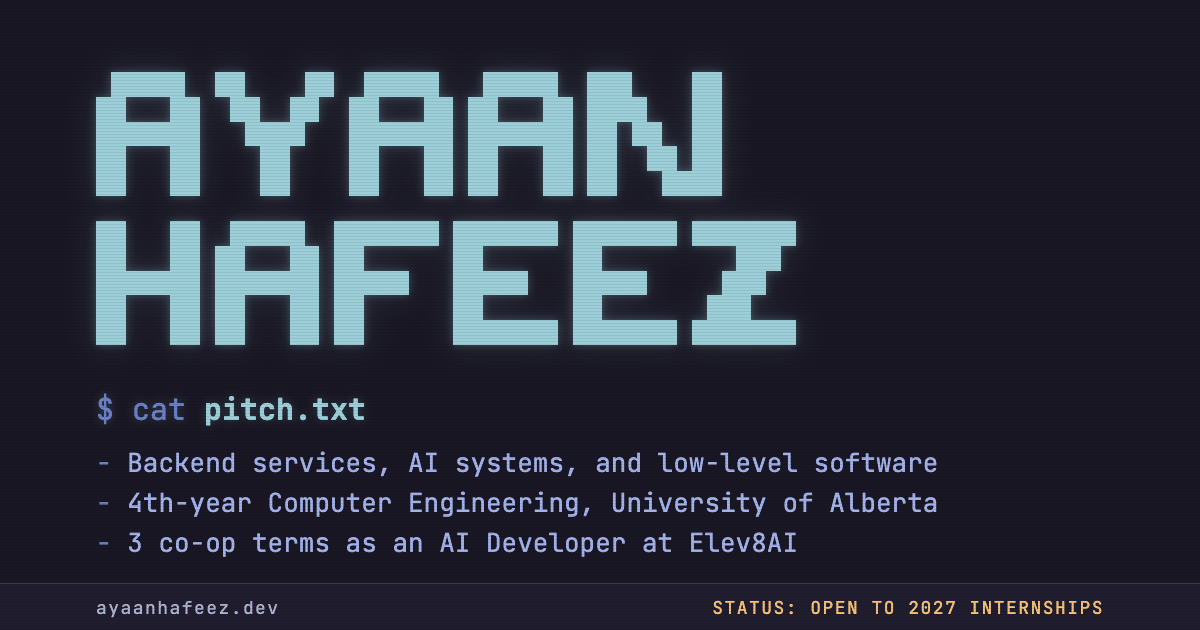
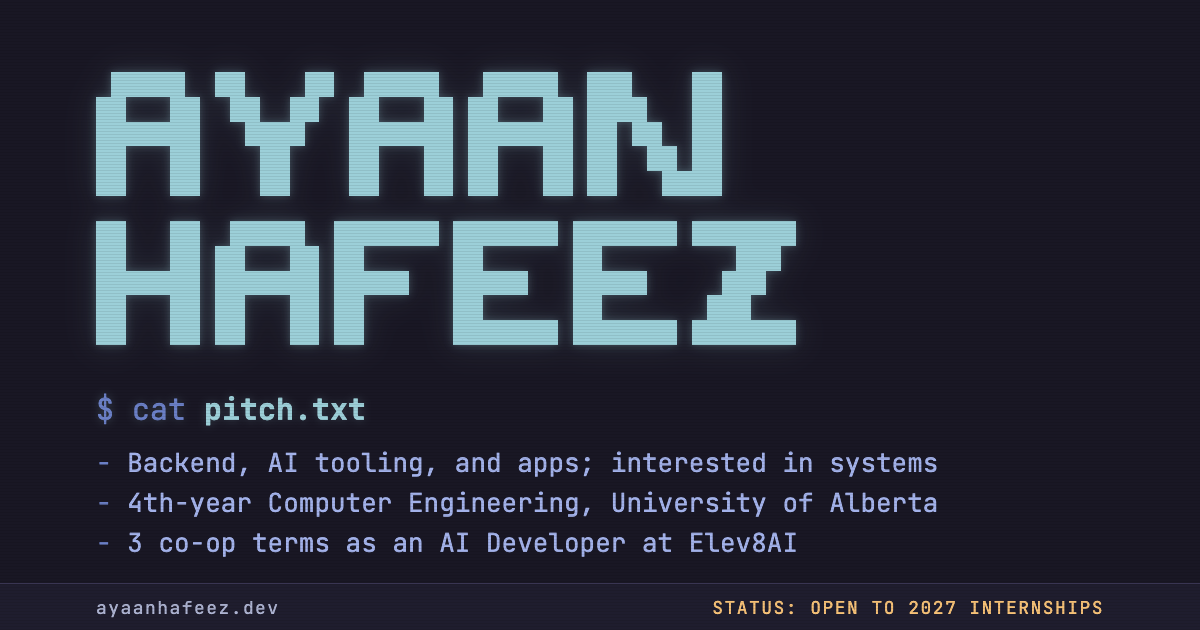
Rebalance projects: systems as an interest, not the whole pitch
Featured: Kitsune, surgraft, ssht, FocusNode, then the Pi kernel as the
systems deep-dive. macwifi and simdlings move to more projects alongside
ASCII and agent-sudo-mac; agent-usage comes off. Title, meta description,
first pitch bullet and og.png now read backend, AI tooling and apps,
with systems as an interest. Kitsune's card uses a crop of the repo's
Rose Pine Moon screenshot around the panel.

Changed region(s): [[0.185, 0.7238, 0.8017, 0.754]]

diff --git a/public/index.html b/public/index.html
@@ -3,22 +3,22 @@
 <head>
   <meta charset="utf-8">
   <meta name="viewport" content="width=device-width, initial-scale=1">
-  <title>Ayaan Hafeez · Backend, AI systems &amp; systems programming</title>
-  <meta name="description" content="4th-year Computer Engineering (Software Option) student at the University of Alberta. Three co-op terms building LLM pipelines and backends at Elev8AI. Systems work in Rust and C; merged PRs to Omarchy and Vorssaint.">
+  <title>Ayaan Hafeez · Software developer: backend, AI tooling &amp; systems</title>
+  <meta name="description" content="4th-year Computer Engineering (Software Option) student at the University of Alberta. Three co-op terms building LLM pipelines and backends at Elev8AI. Ships macOS apps, AI dev tools, and systems projects; merged PRs to Omarchy and Vorssaint.">
   <link rel="canonical" href="https://www.ayaanhafeez.dev/">
   <meta name="color-scheme" content="dark">
   <meta name="theme-color" content="#191724">
 
   <meta property="og:type" content="website">
-  <meta property="og:title" content="Ayaan Hafeez · Backend, AI systems &amp; systems programming">
-  <meta property="og:description" content="4th-year Computer Engineering (Software Option) student at the University of Alberta. Three co-op terms building LLM pipelines and backends at Elev8AI. Systems work in Rust and C; merged PRs to Omarchy and Vorssaint.">
+  <meta property="og:title" content="Ayaan Hafeez · Software developer: backend, AI tooling &amp; systems">
+  <meta property="og:description" content="4th-year Computer Engineering (Software Option) student at the University of Alberta. Three co-op terms building LLM pipelines and backends at Elev8AI. Ships macOS apps, AI dev tools, and systems projects; merged PRs to Omarchy and Vorssaint.">
   <meta property="og:url" content="https://www.ayaanhafeez.dev/">
   <meta property="og:image" content="https://www.ayaanhafeez.dev/og.png">
   <meta property="og:image:width" content="1200">
   <meta property="og:image:height" content="630">
-  <meta property="og:image:alt" content="Ayaan Hafeez: backend services, AI systems, and low-level software">
+  <meta property="og:image:alt" content="Ayaan Hafeez: backend, AI tooling, and apps; interested in systems">
   <meta name="twitter:card" content="summary_large_image">
-  <meta name="twitter:title" content="Ayaan Hafeez · Backend, AI systems &amp; systems programming">
+  <meta name="twitter:title" content="Ayaan Hafeez · Software developer: backend, AI tooling &amp; systems">
   <meta name="twitter:image" content="https://www.ayaanhafeez.dev/og.png">
 
   <script type="application/ld+json">
@@ -78,7 +78,7 @@
             <p class="line"><span class="prompt" aria-hidden="true">$ cat </span>pitch.txt</p>
             <div class="card">
               <ul class="bullets">
-                <li>Backend services, AI systems, and low-level software</li>
+                <li>Backend, AI tooling, and apps; interested in systems</li>
                 <li>4th-year Computer Engineering (Software Option), University of Alberta</li>
                 <li>3 co-op terms as an AI Developer at Elev8AI</li>
               </ul>
@@ -140,49 +140,19 @@
         <h2><span class="prompt" aria-hidden="true">$ ls ~/</span>projects</h2>
 
         <article class="project card">
-          <h3>ssht <span class="dim">persistent SSH sessions</span></h3>
-          <p class="when"><time datetime="2026-06">Jun</time> – <time datetime="2026-08">Aug 2026</time></p>
+          <h3>Kitsune <span class="dim">keyboard launcher for macOS</span></h3>
+          <p class="when"><time datetime="2026-08">Aug 2026</time> – Present</p>
           <dl>
-            <dt>what</dt><dd>Turns every SSH connection into a resumable tmux session, so work survives sleep, network drops, and switching machines.</dd>
-            <dt>hard part</dt><dd>It wraps the system <code>ssh</code> instead of reimplementing it, so ProxyJump, keys, and hardware tokens keep working. A hand-written <code>~/.ssh/config</code> parser handles Include recursion, Match blocks, and wildcard hosts, and tokio probes hosts concurrently so the fuzzy picker never blocks on a slow one. Optional Mosh transport and local-echo mode for high-latency links.</dd>
-            <dt>tech</dt><dd class="tags">Rust / tokio / ratatui / SQLite / tmux / mosh</dd>
-            <dt>links</dt><dd><a href="https://github.com/mayaanhafeez/ssht" target="_blank" rel="noopener noreferrer">GitHub</a> · <a href="https://crates.io/crates/ssht" target="_blank" rel="noopener noreferrer">crates.io</a></dd>
-          </dl>
-          <pre class="proof"><code>$ brew install mayaanhafeez/tap/ssht
-$ cargo install ssht</code></pre>
-        </article>
-
-        <article class="project card">
-          <h3>Bare-metal Raspberry Pi 3 kernel</h3>
-          <p class="when"><time datetime="2026-05">May</time> – <time datetime="2026-07">Jul 2026</time></p>
-          <dl>
-            <dt>what</dt><dd>A single-core AArch64 kernel for the Raspberry Pi 3 in C and ARMv8 assembly, with no libc, built by following Sergey Matyukevich's raspberry-pi-os lesson series.</dd>
-            <dt>hard part</dt><dd>Boot and BSS setup, dropping from EL3/EL2 to EL1, exception vectors and timer IRQs, and a round-robin preemptive scheduler with context switching; then EL0 user processes with system calls (write, malloc, clone/fork, exit) and per-process page tables, where fork copies the parent's user pages. Tested under QEMU.</dd>
-            <dt>tech</dt><dd class="tags">C / ARMv8 assembly / QEMU</dd>
-            <dt>links</dt><dd><a href="https://github.com/mayaanhafeez/raspberry-pi-os" target="_blank" rel="noopener noreferrer">GitHub</a></dd>
+            <dt>what</dt><dd>A launcher that opens on a global hotkey to fuzzy-search apps, a nested command menu, search providers, and system actions.</dd>
+            <dt>hard part</dt><dd>AppKit owns everything native (the panel, rendering, the app index, fuzzy matching, the hotkey, and IPC) while an embedded Lua 5.4 runtime owns the data (menus, actions, plugins, and the theme), so configs and plugins reshape it without touching Swift. Releases publish to a Homebrew cask from a tag push, and a <code>kitsunectl</code> CLI drives it from scripts.</dd>
+            <dt>tech</dt><dd class="tags">Swift / AppKit / Lua 5.4 / Unix sockets / Homebrew</dd>
+            <dt>links</dt><dd><a href="https://kitsune.ayaanhafeez.dev" target="_blank" rel="noopener noreferrer">Site</a> · <a href="https://github.com/mayaanhafeez/app_launcher" target="_blank" rel="noopener noreferrer">GitHub</a></dd>
           </dl>
           <figure>
-            <pre class="proof"><code>$ ./run.sh
-Kernel proess started. EL 1
-user process
-1234512345abcdeabcdeabcde1234512345...</code></pre>
-            <figcaption>Real QEMU output: two forked user processes with separate page tables, interleaved by the preemptive scheduler.</figcaption>
+            <img src="/img/kitsune.jpg" width="1280" height="1040" loading="lazy" alt="Kitsune's launcher panel open over a macOS desktop, Rosé Pine Moon theme">
           </figure>
-        </article>
-
-        <article class="project card">
-          <h3>macwifi <span class="dim">Wi-Fi manager for the macOS terminal</span></h3>
-          <p class="when"><time datetime="2026-06">Jun</time> – <time datetime="2026-09">Sep 2026</time></p>
-          <dl>
-            <dt>what</dt><dd>A terminal UI for scanning, joining, and managing Wi-Fi on macOS; a clean-room port of the Linux tool impala.</dd>
-            <dt>hard part</dt><dd>Split into a LaunchAgent daemon that owns the CoreWLAN interface and a client that talks to it over a Unix socket, so scans run in a session that gets real network names instead of redacted ones. Speed tests from four backends are normalized into one schema and streamed as JSONL events that other front ends can follow live.</dd>
-            <dt>tech</dt><dd class="tags">Rust / tokio / ratatui / CoreWLAN / Keychain / Unix sockets</dd>
-            <dt>links</dt><dd><a href="https://github.com/mayaanhafeez/macwifi" target="_blank" rel="noopener noreferrer">GitHub</a></dd>
-          </dl>
-          <figure>
-            <img src="https://raw.githubusercontent.com/mayaanhafeez/macwifi/main/images/demo.png" width="3420" height="2224" loading="lazy" alt="macwifi TUI showing known networks, new networks, and device tables">
-          </figure>
-          <pre class="proof"><code>$ brew install mayaanhafeez/tap/macwifi</code></pre>
+          <pre class="proof"><code>$ brew tap mayaanhafeez/kitsune https://github.com/mayaanhafeez/app_launcher
+$ brew install --cask kitsune</code></pre>
         </article>
 
         <article class="project card">
@@ -206,13 +176,48 @@ user process
         </article>
 
         <article class="project card">
-          <h3>simdlings <span class="dim">learn ARM NEON SIMD by fixing broken kernels</span></h3>
+          <h3>ssht <span class="dim">persistent SSH sessions</span></h3>
+          <p class="when"><time datetime="2026-06">Jun</time> – <time datetime="2026-08">Aug 2026</time></p>
           <dl>
-            <dt>what</dt><dd>A rustlings-style course in C: 24 exercises where you repair broken NEON vector code, then write kernels that must beat the scalar version by 1.6×–3×.</dd>
-            <dt>hard part</dt><dd>The test harness is adversarial. Buffers end against a PROT_NONE guard page so a one-byte overread faults immediately, canaries catch negative indexing, every kernel is checked at awkward lengths (0, 1, 3, 17, 1001, ...), and the scalar reference is compiled with autovectorization off so measured speedups are real.</dd>
-            <dt>tech</dt><dd class="tags">C / ARM NEON / Bash</dd>
-            <dt>links</dt><dd><a href="https://github.com/mayaanhafeez/simdlings" target="_blank" rel="noopener noreferrer">GitHub</a></dd>
+            <dt>what</dt><dd>Turns every SSH connection into a resumable tmux session, so work survives sleep, network drops, and switching machines.</dd>
+            <dt>hard part</dt><dd>It wraps the system <code>ssh</code> instead of reimplementing it, so ProxyJump, keys, and hardware tokens keep working. A hand-written <code>~/.ssh/config</code> parser handles Include recursion, Match blocks, and wildcard hosts, and tokio probes hosts concurrently so the fuzzy picker never blocks on a slow one. Optional Mosh transport and local-echo mode for high-latency links.</dd>
+            <dt>tech</dt><dd class="tags">Rust / tokio / ratatui / SQLite / tmux / mosh</dd>
+            <dt>links</dt><dd><a href="https://github.com/mayaanhafeez/ssht" target="_blank" rel="noopener noreferrer">GitHub</a> · <a href="https://crates.io/crates/ssht" target="_blank" rel="noopener noreferrer">crates.io</a></dd>
           </dl>
+          <pre class="proof"><code>$ brew install mayaanhafeez/tap/ssht
+$ cargo install ssht</code></pre>
+        </article>
+
+        <article class="project card">
+          <h3>FocusNode <span class="dim">site blocker for Chrome and Firefox</span></h3>
+          <p class="when"><time datetime="2026-01">Jan</time> – <time datetime="2026-07">Jul 2026</time></p>
+          <dl>
+            <dt>what</dt><dd>A browser extension that blocks distracting sites while focus mode is on, published on the Chrome Web Store and Firefox Add-ons.</dd>
+            <dt>hard part</dt><dd>One React + Vite codebase ships to Chrome, Firefox, and Zen through the WebExtensions API. Blocking covers subdomains, turning focus mode off sends a blocked tab back to the page it came from, and settings persist through the storage API with only the storage and tabs permissions.</dd>
+            <dt>tech</dt><dd class="tags">React / Vite / JavaScript / WebExtensions API</dd>
+            <dt>links</dt><dd><a href="https://chromewebstore.google.com/detail/focus-mode-blocker/bhkiedimpjpeoggbodjedjcopedhdaoo" target="_blank" rel="noopener noreferrer">Chrome Web Store</a> · <a href="https://addons.mozilla.org/en-US/firefox/addon/focusnode-website-blocker/" target="_blank" rel="noopener noreferrer">Firefox Add-ons</a> · <a href="https://github.com/mayaanhafeez/FocusNode" target="_blank" rel="noopener noreferrer">GitHub</a></dd>
+          </dl>
+          <figure>
+            <img src="https://raw.githubusercontent.com/mayaanhafeez/FocusNode/main/screenshots/popup.png" width="486" height="550" loading="lazy" alt="FocusNode popup with the Focus Mode toggle">
+          </figure>
+        </article>
+
+        <article class="project card">
+          <h3>Bare-metal Raspberry Pi 3 kernel</h3>
+          <p class="when"><time datetime="2026-05">May</time> – <time datetime="2026-07">Jul 2026</time></p>
+          <dl>
+            <dt>what</dt><dd>A single-core AArch64 kernel for the Raspberry Pi 3 in C and ARMv8 assembly, with no libc, built by following Sergey Matyukevich's raspberry-pi-os lesson series.</dd>
+            <dt>hard part</dt><dd>Boot and BSS setup, dropping from EL3/EL2 to EL1, exception vectors and timer IRQs, and a round-robin preemptive scheduler with context switching; then EL0 user processes with system calls (write, malloc, clone/fork, exit) and per-process page tables, where fork copies the parent's user pages. Tested under QEMU.</dd>
+            <dt>tech</dt><dd class="tags">C / ARMv8 assembly / QEMU</dd>
+            <dt>links</dt><dd><a href="https://github.com/mayaanhafeez/raspberry-pi-os" target="_blank" rel="noopener noreferrer">GitHub</a></dd>
+          </dl>
+          <figure>
+            <pre class="proof"><code>$ ./run.sh
+Kernel proess started. EL 1
+user process
+1234512345abcdeabcdeabcde1234512345...</code></pre>
+            <figcaption>Real QEMU output: two forked user processes with separate page tables, interleaved by the preemptive scheduler.</figcaption>
+          </figure>
         </article>
       </section>
 
@@ -220,24 +225,24 @@ user process
         <h2><span class="prompt" aria-hidden="true">$ ls -a ~/</span><span class="sr-only">more </span>projects</h2>
         <ul class="more">
           <li class="card">
-            <h3>agent-usage</h3>
-            <p>Rust TUI showing token usage and rate limits for Claude Code, Codex, OpenCode, and Gemini CLI side by side, read from each tool's local history.</p>
-            <p class="pr"><a href="https://github.com/mayaanhafeez/agent-usage" target="_blank" rel="noopener noreferrer">GitHub</a></p>
+            <h3>macwifi</h3>
+            <p>Terminal UI for managing Wi-Fi on macOS, a clean-room port of the Linux tool impala, with a LaunchAgent daemon and client talking over a Unix socket.</p>
+            <p class="pr"><a href="https://github.com/mayaanhafeez/macwifi" target="_blank" rel="noopener noreferrer">GitHub</a></p>
+          </li>
+          <li class="card">
+            <h3>simdlings</h3>
+            <p>A rustlings-style course for ARM NEON SIMD in C: 24 exercises with an adversarial test harness, where your kernels must beat the scalar version.</p>
+            <p class="pr"><a href="https://github.com/mayaanhafeez/simdlings" target="_blank" rel="noopener noreferrer">GitHub</a></p>
+          </li>
+          <li class="card">
+            <h3>ASCII</h3>
+            <p>Image-to-ASCII converter with a drag-and-drop web UI, a serverless Python API on Vercel, and a CLI.</p>
+            <p class="pr"><a href="https://ascii.ayaanhafeez.dev" target="_blank" rel="noopener noreferrer">Live demo</a> · <a href="https://github.com/mayaanhafeez/ASCII" target="_blank" rel="noopener noreferrer">GitHub</a></p>
           </li>
           <li class="card">
             <h3>agent-sudo-mac</h3>
             <p>Lets coding agents run sudo on macOS without a TTY, using Touch ID with a GUI password fallback.</p>
             <p class="pr"><a href="https://github.com/mayaanhafeez/agent-sudo-mac" target="_blank" rel="noopener noreferrer">GitHub</a></p>
-          </li>
-          <li class="card">
-            <h3>Kitsune</h3>
-            <p>Keyboard launcher for macOS in Swift and AppKit, scriptable with embedded Lua 5.4; installs via Homebrew.</p>
-            <p class="pr"><a href="https://kitsune.ayaanhafeez.dev" target="_blank" rel="noopener noreferrer">Site</a> · <a href="https://github.com/mayaanhafeez/app_launcher" target="_blank" rel="noopener noreferrer">GitHub</a></p>
-          </li>
-          <li class="card">
-            <h3>FocusNode</h3>
-            <p>Site-blocking browser extension published on the Chrome Web Store and Firefox Add-ons.</p>
-            <p class="pr"><a href="https://github.com/mayaanhafeez/FocusNode" target="_blank" rel="noopener noreferrer">GitHub</a></p>
           </li>
         </ul>
       </section>

diff --git a/CONTENT.md b/CONTENT.md
@@ -4,15 +4,16 @@ Use this content as written. You may shorten a sentence to fit a layout, but nev
 add claims, numbers, users, dates, adjectives like "production-grade", or anything
 not stated here. Every fact below has been checked against the repos.
 
-Target reader: an internship recruiter or engineer hiring for **backend, AI systems,
-or systems programming** roles, spending under a minute on the page.
+Target reader: an internship recruiter or engineer hiring for **software roles: backend,
+AI tooling, and apps**, spending under a minute on the page. Systems is a stated interest,
+not the whole pitch.
 
 ---
 
 ## Meta
 
-- Page title: `Ayaan Hafeez · Backend, AI systems & systems programming`
-- Meta description: `4th-year Computer Engineering (Software Option) student at the University of Alberta. Three co-op terms building LLM pipelines and backends at Elev8AI. Systems work in Rust and C; merged PRs to Omarchy and Vorssaint.`
+- Page title: `Ayaan Hafeez · Software developer: backend, AI tooling & systems`
+- Meta description: `4th-year Computer Engineering (Software Option) student at the University of Alberta. Three co-op terms building LLM pipelines and backends at Elev8AI. Ships macOS apps, AI dev tools, and systems projects; merged PRs to Omarchy and Vorssaint.`
 - Canonical / og:url: `https://www.ayaanhafeez.dev/`
 - og:image: `https://www.ayaanhafeez.dev/opengraph-image` (1200×630)
 
@@ -31,7 +32,7 @@ or systems programming** roles, spending under a minute on the page.
 
 - Name: **Ayaan Hafeez**
 - One-line pitch, shown as the first of three short bullets in the hero:
-  - Backend services, AI systems, and low-level software
+  - Backend, AI tooling, and apps; interested in systems
   - 4th-year Computer Engineering (Software Option), University of Alberta
   - 3 co-op terms as an AI Developer at Elev8AI
 
@@ -76,12 +77,46 @@ or systems programming** roles, spending under a minute on the page.
 
 ---
 
-## Featured projects (5) — show every field, open by default, no "show more"
+## Featured projects (5, a mix: app, AI tooling, dev tool, extension, one systems deep-dive) — show every field, open by default, no "show more"
 
 Each has: name, what it does (one line), what was hard or interesting, tech tags, links,
 and a proof element.
 
-### 1. ssht: persistent SSH sessions
+### 1. Kitsune: keyboard launcher for macOS
+- What: A launcher that opens on a global hotkey to fuzzy-search apps, a nested command menu,
+  search providers, and system actions.
+- Hard part: AppKit owns everything native (the panel, rendering, the app index, fuzzy
+  matching, the hotkey, and IPC) while an embedded Lua 5.4 runtime owns the data (menus,
+  actions, plugins, and the theme), so configs and plugins reshape it without touching Swift.
+  Releases publish to a Homebrew cask from a tag push, and a `kitsunectl` CLI drives it from
+  scripts.
+- Tech: Swift, AppKit, Lua 5.4, Unix sockets, Homebrew
+- Links: Site https://kitsune.ayaanhafeez.dev · GitHub https://github.com/mayaanhafeez/app_launcher
+- Proof: `public/img/kitsune.jpg`, a 1280×1040 crop of the repo's
+  `docs/kitsune-rose-pine-moon-launcher.jpg` around the panel, and the install commands:
+  ```
+  brew tap mayaanhafeez/kitsune https://github.com/mayaanhafeez/app_launcher
+  brew install --cask kitsune
+  ```
+- Dates: Aug 2026 – Present (v0.9.0 Sep 29, v0.9.1 Oct 26)
+
+### 2. surgraft: token-efficient code moves for LLM tools
+- What: Moves functions between files for LLM coding tools without spending tokens on code
+  that didn't change.
+- Hard part: Locates function boundaries with Python's AST (a regex heuristic for
+  JS/TS), byte-copies the exact range, and only sends the snippet to the model for an
+  optional edit pass. Ships as a CLI, a Python library, and an MCP server.
+- Tech: Python, AST, Claude API, MCP
+- Links: PyPI https://pypi.org/project/surgraft/ · GitHub https://github.com/mayaanhafeez/surgraft
+- Proof (show as a small table): moving one 20-line function out of a 5,000-line file
+  | approach | input tokens |
+  |---|---|
+  | naive LLM rewrite | ~44,000 |
+  | surgraft, copy only | 0 |
+  | surgraft + edit pass | ~180 |
+- Dates: May – Jul 2026
+
+### 3. ssht: persistent SSH sessions
 - What: Turns every SSH connection into a resumable tmux session, so work survives sleep,
   network drops, and switching machines.
 - Hard part: It wraps the system `ssh` instead of reimplementing it, so ProxyJump, keys,
@@ -98,7 +133,22 @@ and a proof element.
   ```
 - Dates: Jun – Aug 2026
 
-### 2. Bare-metal Raspberry Pi 3 kernel
+### 4. FocusNode: site blocker for Chrome and Firefox
+- What: A browser extension that blocks distracting sites while focus mode is on, published
+  on the Chrome Web Store and Firefox Add-ons.
+- Hard part: One React + Vite codebase ships to Chrome, Firefox, and Zen through the
+  WebExtensions API. Blocking covers subdomains, turning focus mode off sends a blocked tab
+  back to the page it came from, and settings persist through the storage API with only the
+  storage and tabs permissions.
+- Tech: React, Vite, JavaScript, WebExtensions API
+- Links: Chrome Web Store https://chromewebstore.google.com/detail/focus-mode-blocker/bhkiedimpjpeoggbodjedjcopedhdaoo ·
+  Firefox Add-ons https://addons.mozilla.org/en-US/firefox/addon/focusnode-website-blocker/ ·
+  GitHub https://github.com/mayaanhafeez/FocusNode
+- Proof: screenshot `https://raw.githubusercontent.com/mayaanhafeez/FocusNode/main/screenshots/popup.png` (486×550).
+  Don't cite user counts (5 Chrome, 1 Firefox as of Oct 2026).
+- Dates: Jan – Jul 2026
+
+### 5. Bare-metal Raspberry Pi 3 kernel
 - What: A single-core AArch64 kernel for the Raspberry Pi 3 in C and ARMv8 assembly, with
   no libc, built by following Sergey Matyukevich's raspberry-pi-os lesson series.
 - Hard part: Boot and BSS setup, dropping from EL3/EL2 to EL1, exception vectors and timer
@@ -118,61 +168,23 @@ and a proof element.
   preemptive scheduler. (Keep the "proess" typo; it is the kernel's real output.)
 - Dates: May – Jul 2026
 
-### 3. macwifi: Wi-Fi manager for the macOS terminal
-- What: A terminal UI for scanning, joining, and managing Wi-Fi on macOS; a clean-room port
-  of the Linux tool impala.
-- Hard part: Split into a LaunchAgent daemon that owns the CoreWLAN interface and a client
-  that talks to it over a Unix socket, so scans run in a session that gets real network
-  names instead of redacted ones. Speed tests from four backends are normalized into one
-  schema and streamed as JSONL events that other front ends can follow live.
-- Tech: Rust, tokio, ratatui, CoreWLAN, Keychain, Unix sockets
-- Links: GitHub https://github.com/mayaanhafeez/macwifi
-- Proof: screenshot
-  `https://raw.githubusercontent.com/mayaanhafeez/macwifi/main/images/demo.png`
-  alt: "macwifi TUI showing known networks, new networks, and device tables"
-  Also: `brew install mayaanhafeez/tap/macwifi`
-- Dates: Jun – Sep 2026
-
-### 4. surgraft: token-efficient code moves for LLM tools
-- What: Moves functions between files for LLM coding tools without spending tokens on code
-  that didn't change.
-- Hard part: Locates function boundaries with Python's AST (a regex heuristic for
-  JS/TS), byte-copies the exact range, and only sends the snippet to the model for an
-  optional edit pass. Ships as a CLI, a Python library, and an MCP server.
-- Tech: Python, AST, Claude API, MCP
-- Links: PyPI https://pypi.org/project/surgraft/ · GitHub https://github.com/mayaanhafeez/surgraft
-- Proof (show as a small table): moving one 20-line function out of a 5,000-line file
-  | approach | input tokens |
-  |---|---|
-  | naive LLM rewrite | ~44,000 |
-  | surgraft, copy only | 0 |
-  | surgraft + edit pass | ~180 |
-- Dates: May – Jul 2026
-
-### 5. simdlings: learn ARM NEON SIMD by fixing broken kernels
-- What: A rustlings-style course in C: 24 exercises where you repair broken NEON vector
-  code, then write kernels that must beat the scalar version by 1.6×–3×.
-- Hard part: The test harness is adversarial. Buffers end against a PROT_NONE guard page so
-  a one-byte overread faults immediately, canaries catch negative indexing, every kernel is
-  checked at awkward lengths (0, 1, 3, 17, 1001, ...), and the scalar reference is compiled
-  with autovectorization off so measured speedups are real.
-- Tech: C, ARM NEON, Bash
-- Links: GitHub https://github.com/mayaanhafeez/simdlings
-
 ---
 
-## More projects (compact list: name, one line, link)
+## More projects (compact cards: name, one line, links)
 
-- **agent-usage**: Rust TUI showing token usage and rate limits for Claude Code, Codex,
-  OpenCode, and Gemini CLI side by side, read from each tool's local history.
-  https://github.com/mayaanhafeez/agent-usage
+- **macwifi**: Terminal UI for managing Wi-Fi on macOS, a clean-room port of the Linux tool
+  impala, with a LaunchAgent daemon and client talking over a Unix socket.
+  https://github.com/mayaanhafeez/macwifi
+- **simdlings**: A rustlings-style course for ARM NEON SIMD in C: 24 exercises with an
+  adversarial test harness, where your kernels must beat the scalar version.
+  https://github.com/mayaanhafeez/simdlings
+- **ASCII**: Image-to-ASCII converter with a drag-and-drop web UI, a serverless Python API on
+  Vercel, and a CLI. https://ascii.ayaanhafeez.dev · https://github.com/mayaanhafeez/ASCII
 - **agent-sudo-mac**: Lets coding agents run sudo on macOS without a TTY, using Touch ID
   with a GUI password fallback. https://github.com/mayaanhafeez/agent-sudo-mac
-- **Kitsune**: Keyboard launcher for macOS in Swift and AppKit, scriptable with embedded
-  Lua 5.4; installs via Homebrew. https://kitsune.ayaanhafeez.dev ·
-  https://github.com/mayaanhafeez/app_launcher
-- **FocusNode**: Site-blocking browser extension published on the Chrome Web Store and
-  Firefox Add-ons. https://github.com/mayaanhafeez/FocusNode
+
+Left off on purpose: Tuesday.com, agent-usage, the EMG controller (1 of 14 commits, so its
+latency claims can't be backed), BookmarkAPI.
 
 ---
 

diff --git a/README.md b/README.md
@@ -2,8 +2,8 @@
 
 The next version of [ayaanhafeez.dev](https://www.ayaanhafeez.dev): a CRT terminal design
 after the Terminal Mystery launch site (Rosé Pine on JetBrains Mono, block-letter banner,
-boot-log hero, the game's status bar). Aimed at backend, AI systems, and systems
-programming internships.
+boot-log hero, the game's status bar). Aimed at software internships: backend, AI tooling,
+and apps, with systems as an interest.
 
 Right now it is a static site in `public/`: `index.html`, `styles.css`, and `script.js` (only the optional
 `:` command line). `CONTENT.md` is the fact-checked source for every claim on the page.
